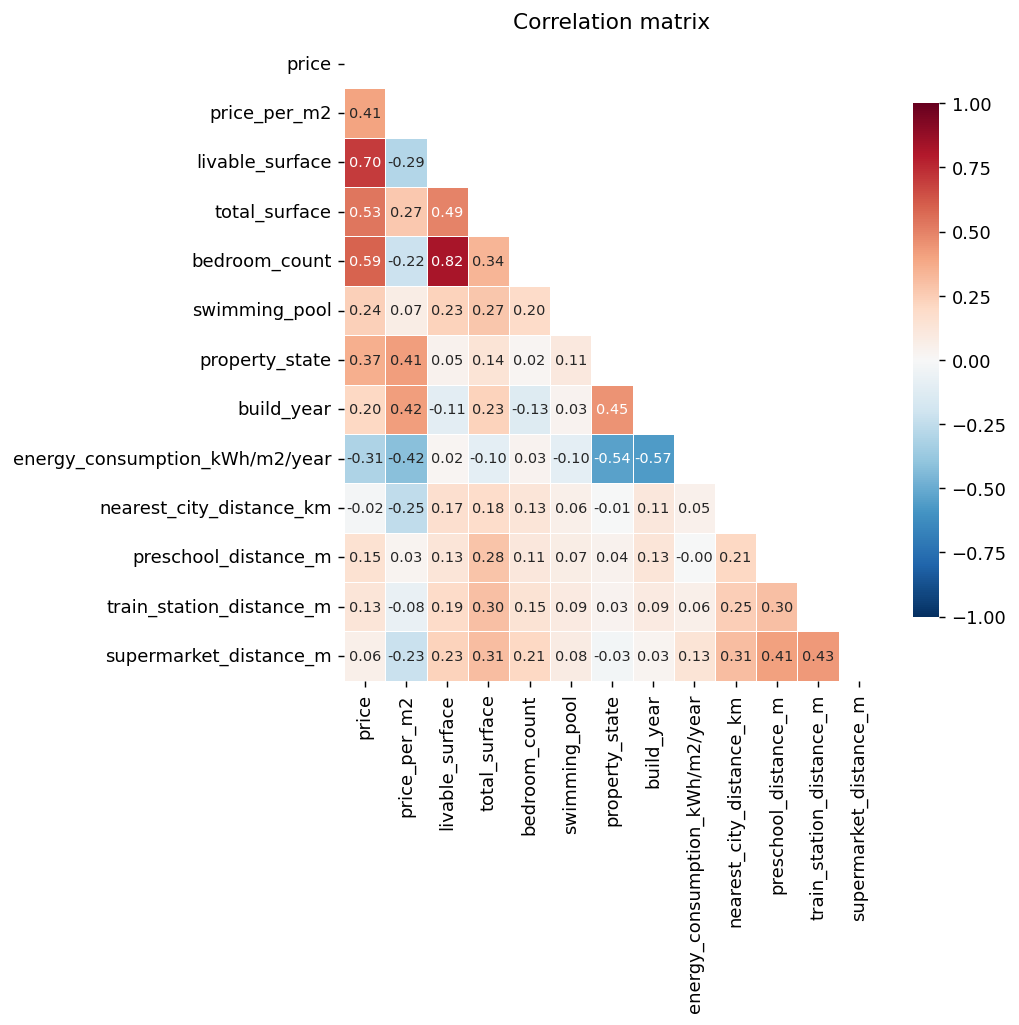
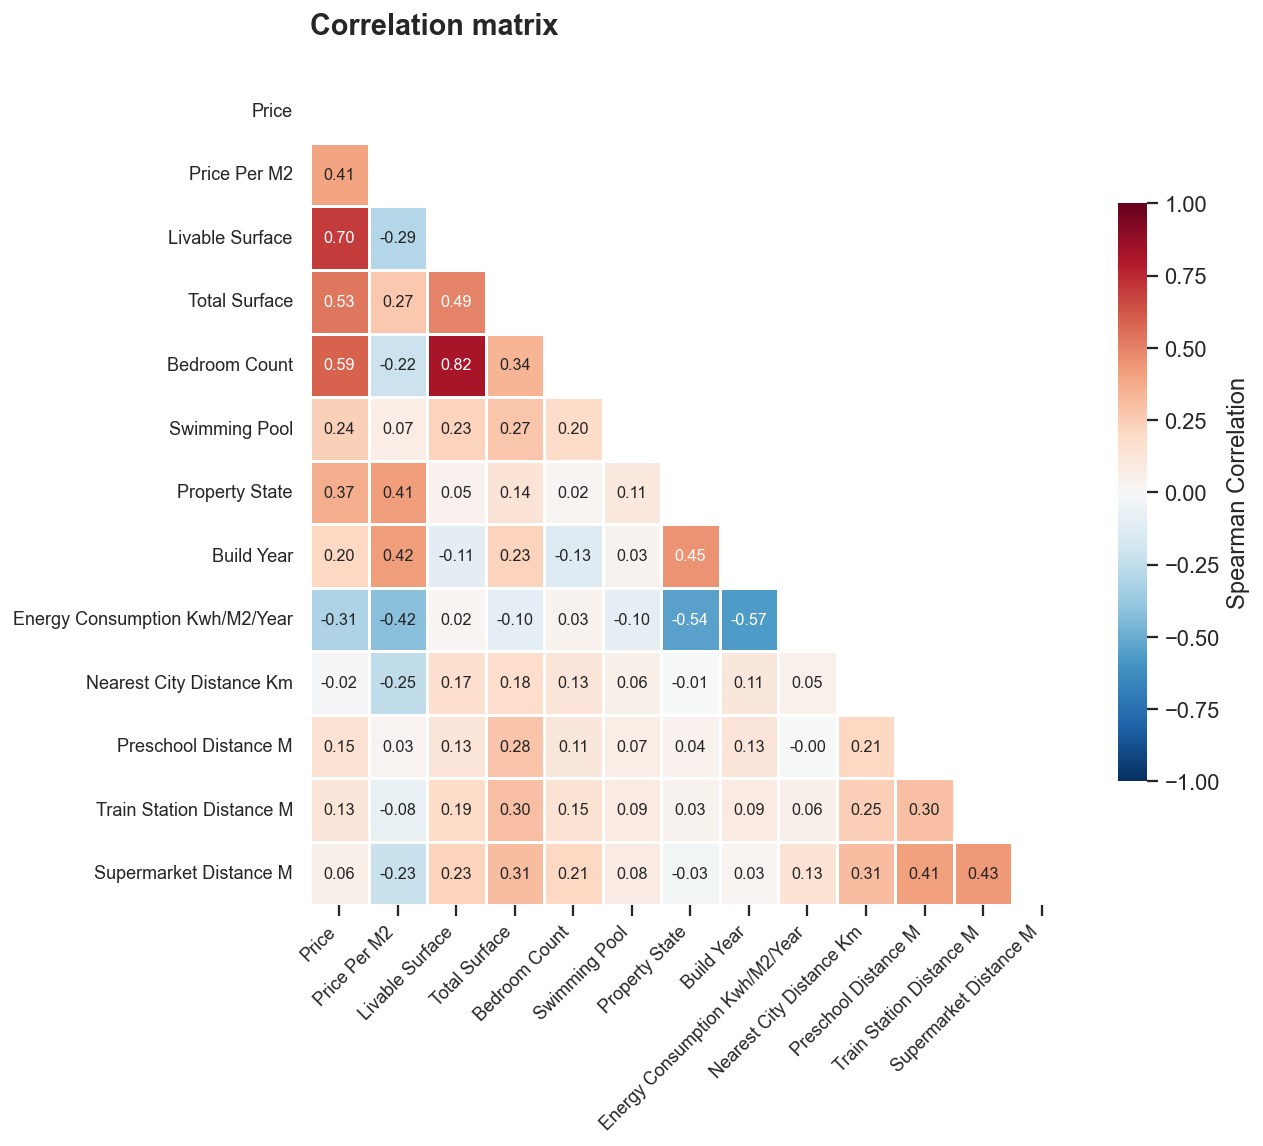
Changed corr graph

diff --git a/src/correlations_and_property_states.py b/src/correlations_and_property_states.py
@@ -17,14 +17,20 @@ def correlations_matrix(df, base_dir):
     states_dict = {"Excellent": 5, "Fully renovated": 3, "New": 4, "Normal": 2, "To demolish": None, "To renovate": 1, "To restore": None, "Under construction": None}
     numerical['property_state'] = numerical['property_state'].map(states_dict)
 
-    fig, ax = plt.subplots(figsize=(8, 8))
+    sns.set_theme(style='white', palette='muted', font_scale=1.1)
+    fig, ax = plt.subplots(figsize=(10, 9))
 
     corr = numerical.corr(method='spearman')
     mask = np.triu(np.ones_like(corr, dtype=bool))
     sns.heatmap(corr, ax=ax, mask=mask, cmap='RdBu_r', center=0, vmin=-1, vmax=1, annot=True, fmt='.2f',
-                linewidths=0.5, annot_kws={'size': 8}, cbar_kws={'shrink': 0.8})
-    ax.set_title('Correlation matrix')
-    
+                linewidths=1.5, linecolor='white',annot_kws={'size': 9, 'weight': 'medium'}, cbar_kws={'shrink': 0.7, 'label': 'Spearman Correlation'})
+    ax.set_title('Correlation matrix', fontsize=16, pad=25, fontweight='bold', loc='left')
+
+    ax.set_xticklabels([label.get_text().replace('_', ' ').title() for label in ax.get_xticklabels()], rotation=45, horizontalalignment='right', fontsize=10)
+    ax.set_yticklabels([label.get_text().replace('_', ' ').title() for label in ax.get_yticklabels()], rotation=0, fontsize=10)
+
+    ax.tick_params(left=False, bottom=True)
+    sns.despine(left=True, bottom=True)
     plt.tight_layout()
     plt.savefig(os.path.join(base_dir, './images/correlation_matrix.png'), dpi=130, bbox_inches='tight')
     plt.close(fig=fig)